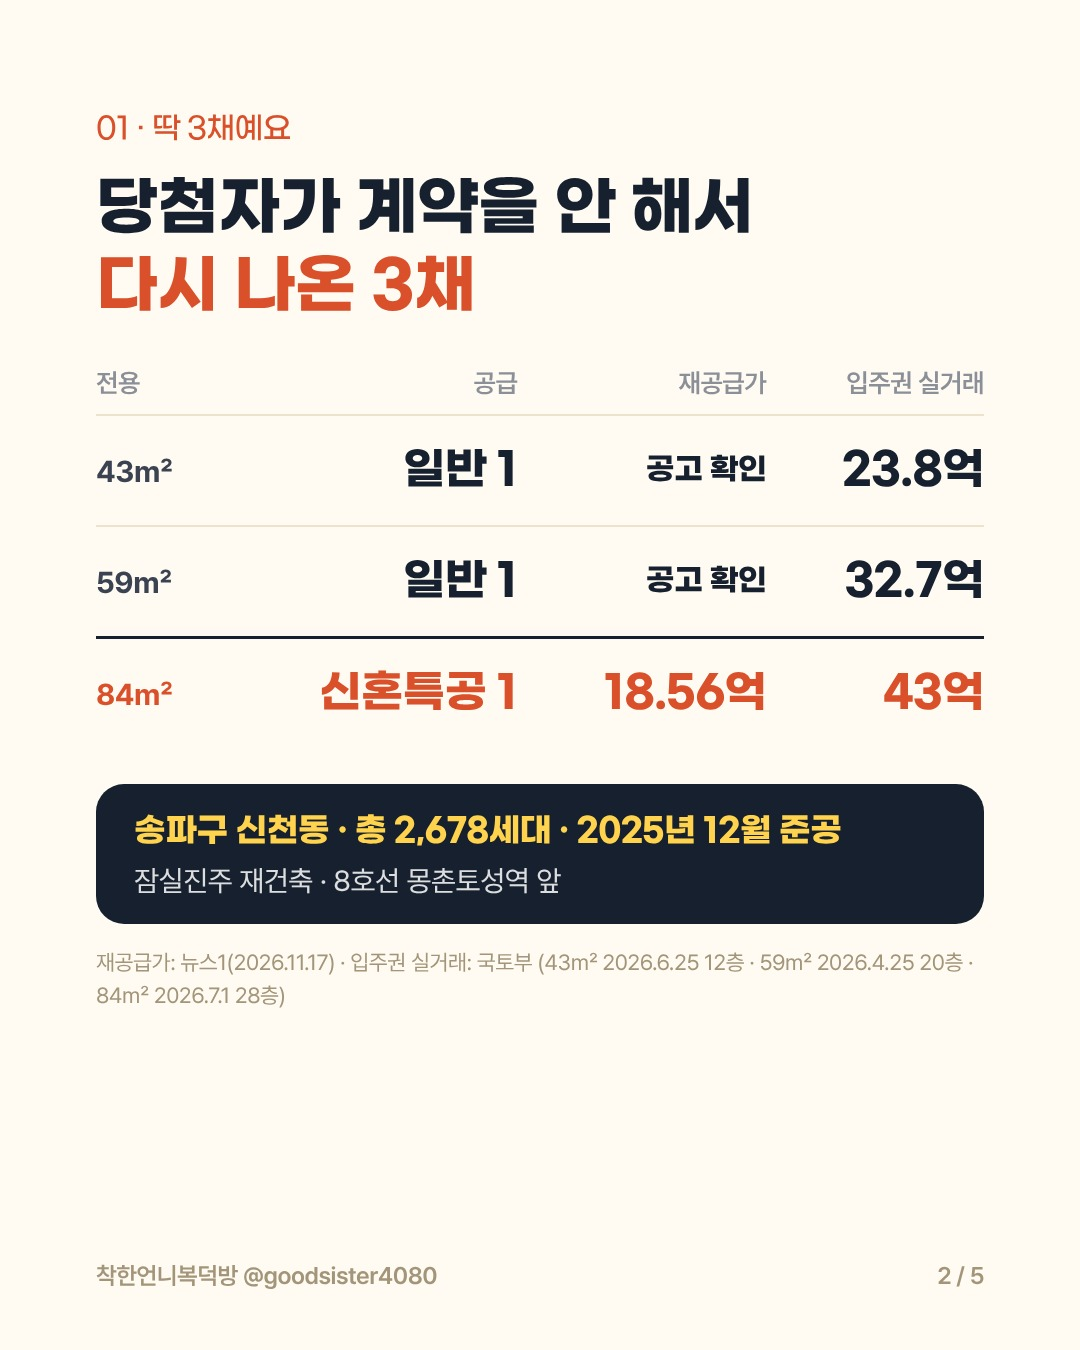
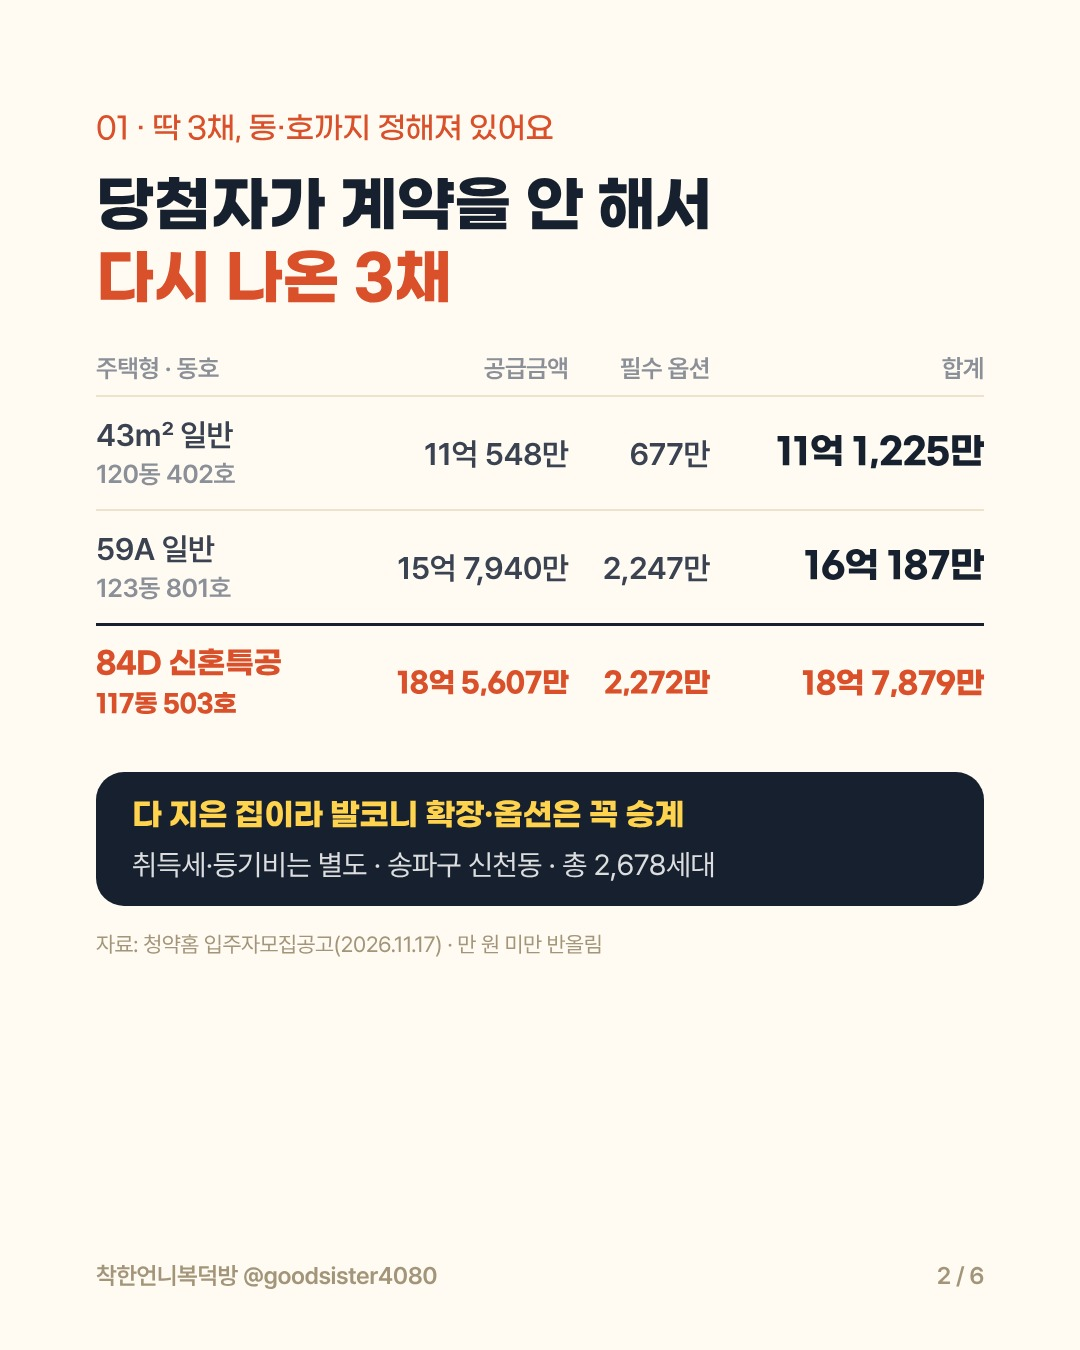
Jamsil card v2: Jamsil-area cover hook, unit prices, cash schedule, eligibility and dates
Claude-Session: https://claude.ai/code/session_01TVq9M4GpnT2XRseWGn9WC1

diff --git a/instagram/cards/kit.html b/instagram/cards/kit.html
@@ -10,7 +10,43 @@ pre{white-space:pre-wrap;word-break:keep-all;margin:0;padding:14px;font-family:i
 code{background:#FFD84D;padding:2px 8px;border-radius:6px}a.back{font-size:14px}
 </style></head><body><div class="w"><a class="back" href="../../">← 대시보드</a><h1>📤 카드뉴스 업로드 키트</h1>
 <p class="note">캡션·고정 댓글·DM 문구를 버튼 한 번으로 복사하세요.</p>
-<section><h2>🚨 신반포에스테라 잔여 5세대 (DM 없음)</h2><div class="th"><a href="2026-11-16-estera/card-1116-1.png?v=3" download><img src="2026-11-16-estera/card-1116-1.png?v=3"></a><a href="2026-11-16-estera/card-1116-2.png?v=3" download><img src="2026-11-16-estera/card-1116-2.png?v=3"></a><a href="2026-11-16-estera/card-1116-3.png?v=3" download><img src="2026-11-16-estera/card-1116-3.png?v=3"></a><a href="2026-11-16-estera/card-1116-4.png?v=3" download><img src="2026-11-16-estera/card-1116-4.png?v=3"></a><a href="2026-11-16-estera/card-1116-5.png?v=3" download><img src="2026-11-16-estera/card-1116-5.png?v=3"></a><a href="2026-11-16-estera/card-1116-6.png?v=3" download><img src="2026-11-16-estera/card-1116-6.png?v=3"></a></div><p class="note">저장·공유형이라 소셜비즈 설정이 없어요.</p><div class="box"><div class="hd"><b>① 캡션</b><button onclick="cp(this)">복사</button></div><pre>🚨 반포 신축 84㎡,
+<section><h2>🚨 잠실권 래미안아이파크 재공급 (DM 없음)</h2><div class="th"><a href="2026-11-17-jamsil/card-1117-1.png?v=3" download><img src="2026-11-17-jamsil/card-1117-1.png?v=3"></a><a href="2026-11-17-jamsil/card-1117-2.png?v=3" download><img src="2026-11-17-jamsil/card-1117-2.png?v=3"></a><a href="2026-11-17-jamsil/card-1117-3.png?v=3" download><img src="2026-11-17-jamsil/card-1117-3.png?v=3"></a><a href="2026-11-17-jamsil/card-1117-4.png?v=3" download><img src="2026-11-17-jamsil/card-1117-4.png?v=3"></a><a href="2026-11-17-jamsil/card-1117-5.png?v=3" download><img src="2026-11-17-jamsil/card-1117-5.png?v=3"></a><a href="2026-11-17-jamsil/card-1117-6.png?v=3" download><img src="2026-11-17-jamsil/card-1117-6.png?v=3"></a></div><p class="note">저장·공유형이라 소셜비즈 설정이 없어요.</p><div class="box"><div class="hd"><b>① 캡션</b><button onclick="cp(this)">복사</button></div><pre>🚨 잠실권 새 아파트 84㎡,
+옆집은 43억, 이 집은 18억 7천이에요
+📌 11/23 접수 전에 저장해 두세요.
+
+잠실 래미안아이파크
+당첨자가 계약을 안 해서 다시 나온 딱 3채
+
+✔ 43㎡ 일반 · 120동 402호 · 11억 1,225만
+✔ 59A 일반 · 123동 801호 · 16억 187만
+✔ 84D 신혼특공 · 117동 503호 · 18억 7,879만
+(필수 옵션 포함 · 취득세 별도)
+
+📅 신혼 특공 11/23(월) · 일반 11/24(화)
+📅 발표 11/27(금) · 계약 12/4(금)
+
+일반공급은 서울 거주 무주택 세대주,
+청약통장·가점·소득·자산 상관없이 추첨이에요.
+
+그런데 로또라도 현금이 먼저예요.
+계약금 30% + 잔금은 계약 후 30일 안에.
+시세 25억 넘는 집은 대출 최대 2억이라
+84D는 현금 약 16억 8천이 필요해요.
+
+📤 잠실 집 알아보는 친구에게 공유해 주세요!
+
+🔗 수도권 11월 청약 일정은
+프로필 링크에서 한눈에 👀
+
+착한언니복덕방 팔로우하면
+살이 되고 돈이 되는
+부동산 정보, 계속 드릴게요 💛
+
+※ 자격·대출 한도는 청약홈 공고 원문과 은행 상담으로 꼭 확인하세요.
+
+#잠실래미안아이파크 #잠실 #재공급 #줍줍 #무순위 #송파 #신혼특공 #청약정보 #착한언니복덕방</pre></div><div class="box"><div class="hd"><b>② 고정 댓글</b><button onclick="cp(this)">복사</button></div><pre>📌 신혼 특공 11/23 · 일반 11/24 · 발표 11/27!
+
+잠실 집 알아보는 친구에게도 공유해 주세요. 🏠</pre></div></section><section><h2>🚨 신반포에스테라 잔여 5세대 (DM 없음)</h2><div class="th"><a href="2026-11-16-estera/card-1116-1.png?v=3" download><img src="2026-11-16-estera/card-1116-1.png?v=3"></a><a href="2026-11-16-estera/card-1116-2.png?v=3" download><img src="2026-11-16-estera/card-1116-2.png?v=3"></a><a href="2026-11-16-estera/card-1116-3.png?v=3" download><img src="2026-11-16-estera/card-1116-3.png?v=3"></a><a href="2026-11-16-estera/card-1116-4.png?v=3" download><img src="2026-11-16-estera/card-1116-4.png?v=3"></a><a href="2026-11-16-estera/card-1116-5.png?v=3" download><img src="2026-11-16-estera/card-1116-5.png?v=3"></a><a href="2026-11-16-estera/card-1116-6.png?v=3" download><img src="2026-11-16-estera/card-1116-6.png?v=3"></a></div><p class="note">저장·공유형이라 소셜비즈 설정이 없어요.</p><div class="box"><div class="hd"><b>① 캡션</b><button onclick="cp(this)">복사</button></div><pre>🚨 반포 신축 84㎡,
 청약통장 없이 누구나 넣어요
 📌 18일 접수 전에 저장해 두세요.
 

diff --git a/index.html b/index.html
@@ -103,9 +103,9 @@ footer{margin-top:48px;color:var(--tx3);font-size:12px}
   <h2>📌 이번 주 할 일 (11/2 ~ 11/8)</h2>
   <div class="sub">바로 올릴 수 있게 준비된 콘텐츠</div>
   <div class="cards">
-    <div class="card"><h3>🚨 잠실 래미안아이파크 재공급 3채 · 저장·공유만 · 승인 대기 (접수일 공고 확인 중)</h3>
-      <p><b>옆집은 43억, 이 집은 18억 5천 (5장)</b></p>
-      <p><img src="instagram/cards/2026-11-17-jamsil/card-1117-1.png" style="width:100%;border-radius:10px;margin-top:8px"></p></div>
+    <div class="card"><h3>🚨 잠실권 래미안아이파크 재공급 3채 · 저장·공유만 · 승인 대기</h3>
+      <p><b>잠실권 84㎡ 옆집은 43억, 이 집은 18억 7천 (6장)</b></p>
+      <p><img src="instagram/cards/2026-11-17-jamsil/card-1117-1.png?v=2" style="width:100%;border-radius:10px;margin-top:8px"></p></div>
     <div class="card"><h3>🎬 대본 · 상황극 2호 「진짜 살았는데도」 + 튜토리얼 1호 「안심전세앱」 + 📱 녹화 순서</h3>
       <p style="margin-top:6px"><a href="instagram/reels/2026-11-대본-실거주갱신거절-안심전세앱+녹화순서.html"><b>대본·녹화 순서 보기</b></a></p></div>
     <div class="card"><h3>🗂 릴스 4대 시리즈 기획서 v2 + 소재 은행 (최근 판례 · 전세 안전 앱)</h3>

diff --git a/instagram/cards/2026-11-17-jamsil/README.md b/instagram/cards/2026-11-17-jamsil/README.md
@@ -1,30 +1,35 @@
-# 🚨 잠실 래미안아이파크 계약 취소 3채 재공급
+# 🚨 잠실권 · 잠실 래미안아이파크 계약 취소 3채 재공급
 
-**업로드**: 승인 대기 · 5장 · DM 없음 (저장·공유만)
-**✅ 확인**: 뉴스1(11.17) 84㎡ 재공급가 18억 5,607만, 3채 구성 / 위키트리(11.16) 서울 거주·무주택, 2,678세대, 2025.12 준공, 최초 분양가 / 국토부 분양권·입주권 실거래 (43㎡ 23.8억 6.25 · 59㎡ 32.7억 4.25 · 84㎡ 43억 7.1)
-**⚠ 미확인 (카드에 안 넣음)**: 접수일(특공 11/23·일반 11/24)·발표 11/27, 43·59㎡ 재공급가, 재공급분 규제 → 청약홈 공고문 확인 후 추가
+**업로드**: 승인 대기 · 6장 · DM 없음 (저장·공유만)
+**자료**: 청약홈 입주자모집공고(2026.11.17) 정리본(대표님 제공) — 동호·공급금액·옵션·계약금 30%·잔금 30일·일정·자격 / 뉴스1 84D 18억 5,607만 일치 확인 / 국토부 실거래(입주권 43.2억 6.30·30층, 59㎡ 32.7억, 43㎡ 23.8억, 파크리오 84㎡ 28.6~30.3억 10월)
+**주의**: 대출 최대(43㎡ 4억, 59·84 2억)는 2025.10.15 대책의 시가 구간 한도 기준 해석 → 개인별 은행 확인 문구 포함
 
 ## 캡션
 ```
-🚨 옆집은 43억,
-이 집은 18억 5천이에요
-📌 접수 전에 저장해 두세요.
+🚨 잠실권 새 아파트 84㎡,
+옆집은 43억, 이 집은 18억 7천이에요
+📌 11/23 접수 전에 저장해 두세요.
 
 잠실 래미안아이파크
 당첨자가 계약을 안 해서 다시 나온 딱 3채
 
-✔ 43㎡ 일반 1채 · 59㎡ 일반 1채
-✔ 84㎡ 신혼부부 특공 1채 (18억 5,607만)
-✔ 서울 거주 + 무주택
+✔ 43㎡ 일반 · 120동 402호 · 11억 1,225만
+✔ 59A 일반 · 123동 801호 · 16억 187만
+✔ 84D 신혼특공 · 117동 503호 · 18억 7,879만
+(필수 옵션 포함 · 취득세 별도)
 
-입주권 실거래는
-84㎡ 43억 · 59㎡ 32.7억 · 43㎡ 23.8억
+📅 신혼 특공 11/23(월) · 일반 11/24(화)
+📅 발표 11/27(금) · 계약 12/4(금)
 
-로또라도 계약할 돈이 있어야 해요.
-이미 다 지은 단지라 잔금 일정,
-대출 한도, 거주의무부터 확인하세요.
+일반공급은 서울 거주 무주택 세대주,
+청약통장·가점·소득·자산 상관없이 추첨이에요.
 
-📤 서울 무주택 친구에게 공유해 주세요!
+그런데 로또라도 현금이 먼저예요.
+계약금 30% + 잔금은 계약 후 30일 안에.
+시세 25억 넘는 집은 대출 최대 2억이라
+84D는 현금 약 16억 8천이 필요해요.
+
+📤 잠실 집 알아보는 친구에게 공유해 주세요!
 
 🔗 수도권 11월 청약 일정은
 프로필 링크에서 한눈에 👀
@@ -33,14 +38,14 @@
 살이 되고 돈이 되는
 부동산 정보, 계속 드릴게요 💛
 
-※ 접수일·자격·재공급가는 청약홈 공고 원문을 꼭 확인하세요.
+※ 자격·대출 한도는 청약홈 공고 원문과 은행 상담으로 꼭 확인하세요.
 
-#잠실래미안아이파크 #재공급 #줍줍 #무순위 #잠실 #송파 #청약정보 #착한언니복덕방
+#잠실래미안아이파크 #잠실 #재공급 #줍줍 #무순위 #송파 #신혼특공 #청약정보 #착한언니복덕방
 ```
 
 ## 고정 댓글
 ```
-📌 접수일은 청약홈 공고에서 꼭 확인하세요!
+📌 신혼 특공 11/23 · 일반 11/24 · 발표 11/27!
 
-서울 무주택 친구에게도 공유해 주세요. 🏠
+잠실 집 알아보는 친구에게도 공유해 주세요. 🏠
 ```
